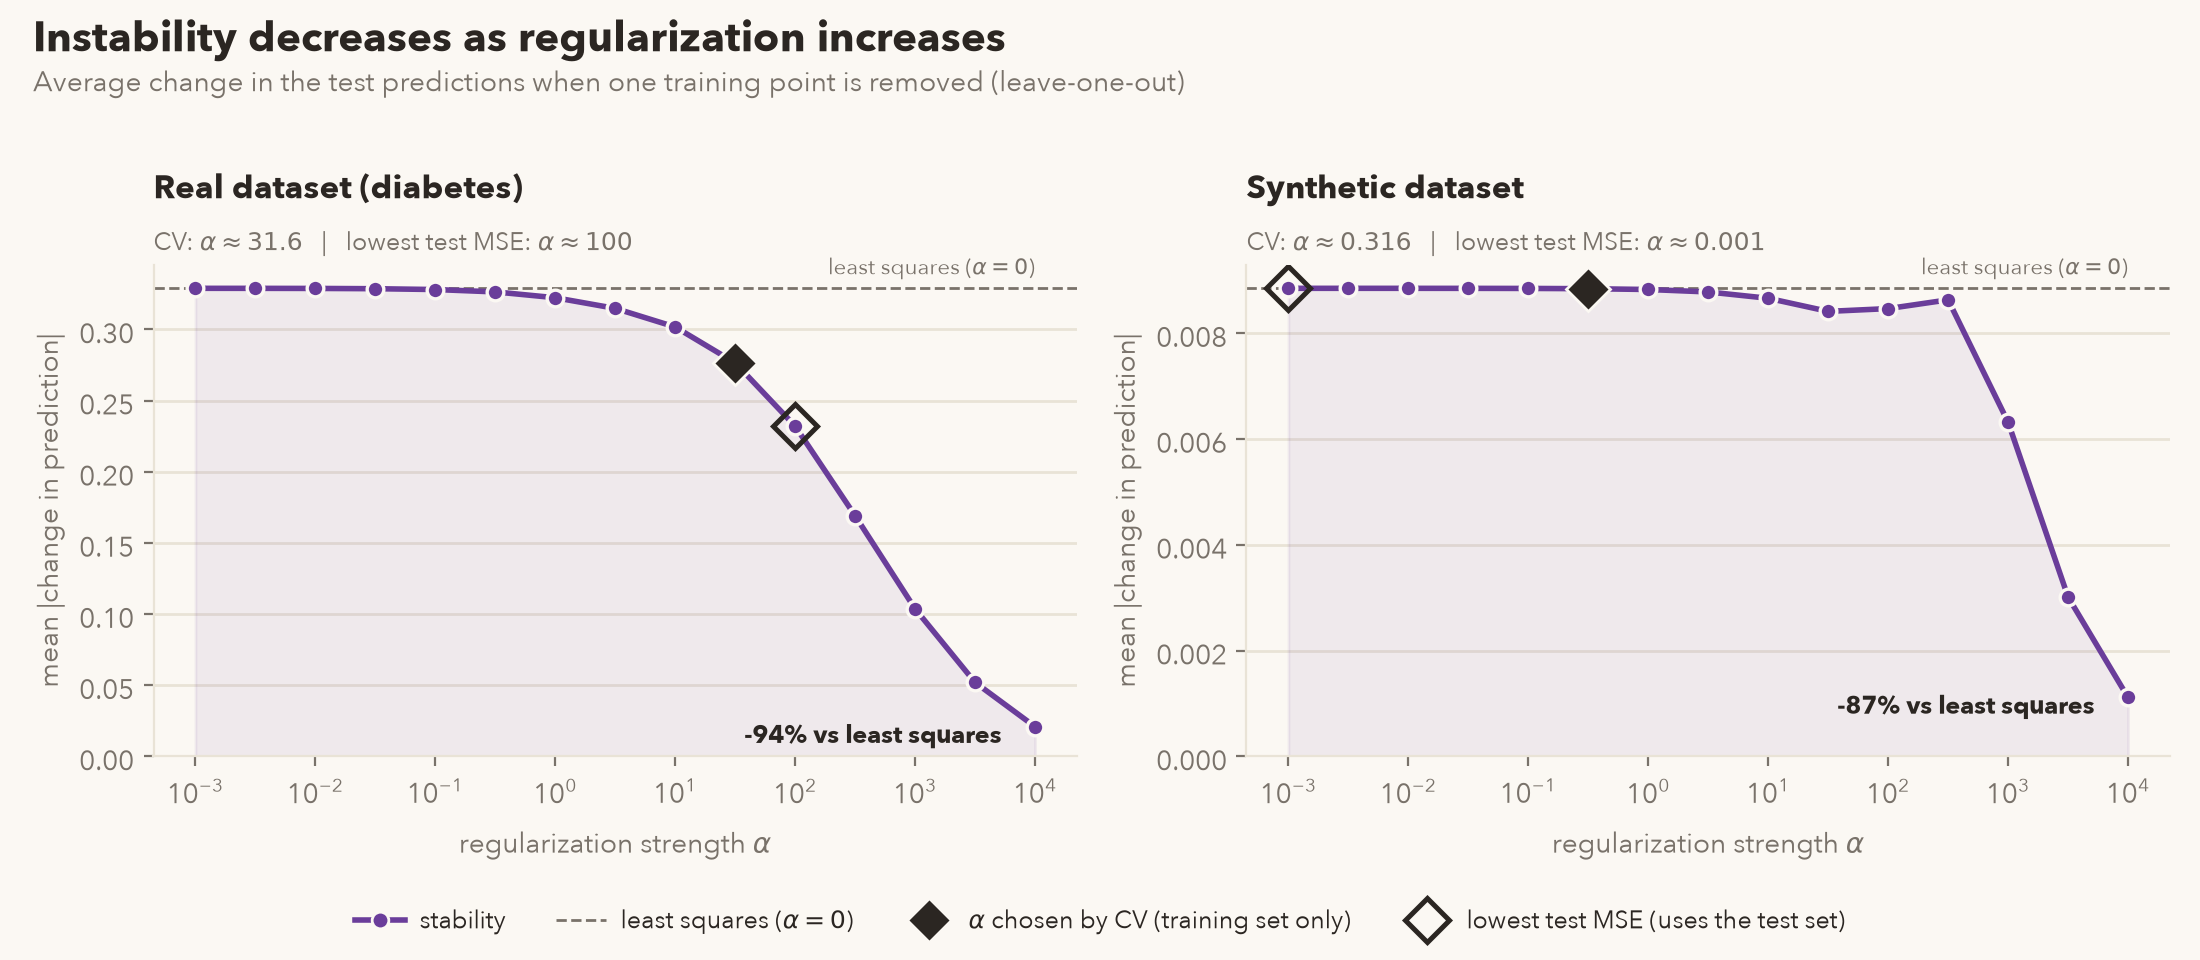
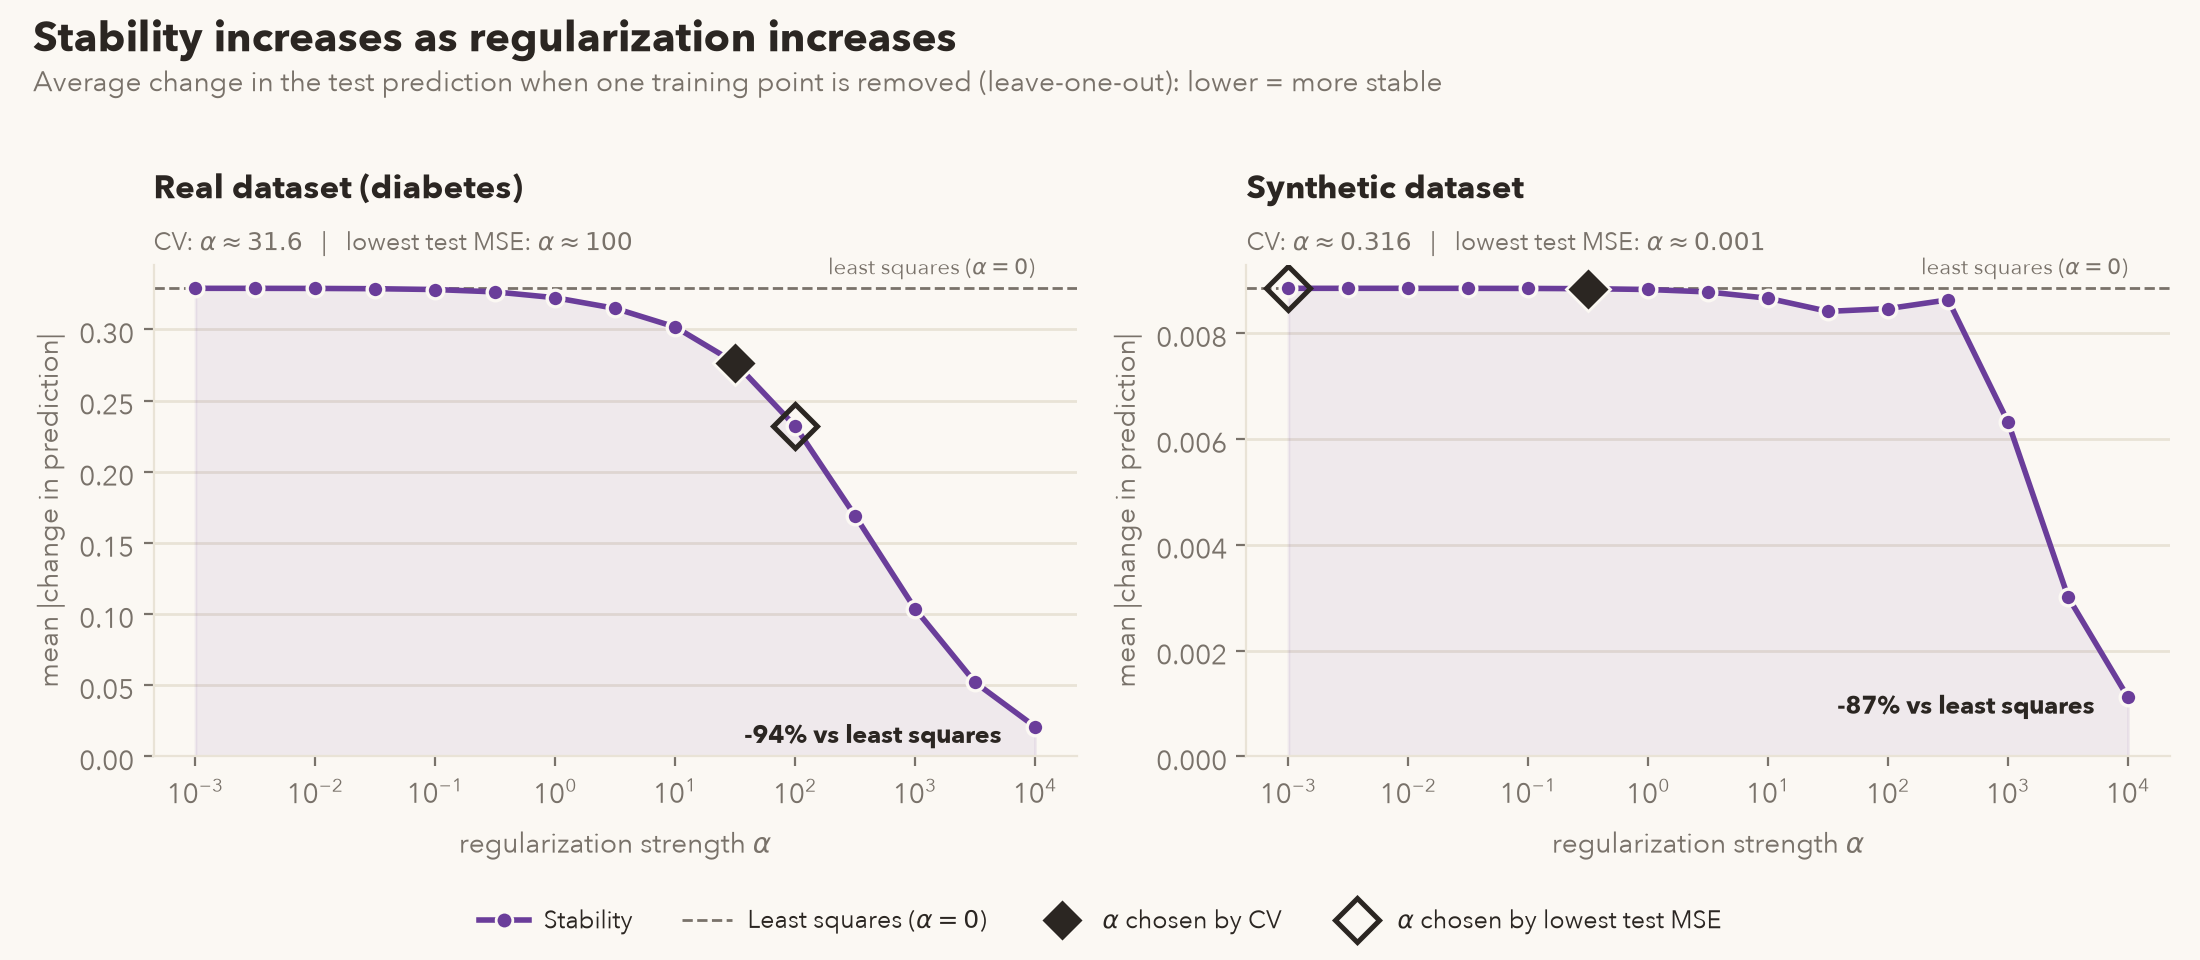
plot_results: simplify style settings, update legends, add loss stability figure (first figure)

Changed region(s): [[0.0, 0.0, 0.6491, 0.0938], [0.1545, 0.9375, 0.8345, 1.0]]

diff --git a/src/plot_results.py b/src/plot_results.py
@@ -14,41 +14,23 @@ from matplotlib.patches import Patch
 
 RESULTS_DIR = Path(__file__).resolve().parent.parent / "results"
 
-# datasets to plot: (name used in the CSV file, title shown on the panel)
+
 DATASETS = [
     ("real_diabetes", "Real dataset (diabetes)"),
     ("synthetic", "Synthetic dataset"),
-]
+] #name of file, title
+
 
 # LOOK
 
-# line colors: (test / main series, training series)
-# options: "plum_gold", "indigo_raspberry", "burgundy_teal", "plum_teal"
-COLORS = "plum_gold"
+# line colors
+TEST_COLOR = "#6a3d9a"   # plum: test
+TRAIN_COLOR = "#c47f00"  # gold: training series
 
-# line style: "dots" (solid lines with dots), "clean" (solid lines, no dots),
-# "dashed" (training line dashed with square dots, easy to tell apart even in black and white)
-LINES = "dots"
+# line styles
+LINE_STYLE = {"linestyle": "-", "marker": "o", "markersize": 6} # solid line with dots
 
-PALETTES = {
-    "plum_gold": ("#6a3d9a", "#c47f00"),
-    "indigo_raspberry": ("#4338ca", "#e11d74"),
-    "burgundy_teal": ("#9b2c5a", "#2a9d8f"),
-    "plum_teal": ("#6a3d9a", "#2a9d8f"),
-}
-
-LINE_STYLES = {
-    "dots": {"test": {"linestyle": "-", "marker": "o", "markersize": 6},
-             "train": {"linestyle": "-", "marker": "o", "markersize": 6}},
-    "clean": {"test": {"linestyle": "-", "marker": "none"},
-              "train": {"linestyle": "-", "marker": "none"}},
-    "dashed": {"test": {"linestyle": "-", "marker": "o", "markersize": 6},
-               "train": {"linestyle": "--", "marker": "s", "markersize": 5}},
-}
-
-TEST_COLOR, TRAIN_COLOR = PALETTES[COLORS]
-
-# neutral colors (warm sand background)
+# neutral colors
 BG = "#fbf8f3"     # background
 INK = "#2b2622"    # titles, markers and main text
 MUTED = "#79726a"  # secondary text and reference lines
@@ -57,6 +39,7 @@ GRID = "#e9e3d6"   # grid lines and axes
 # fonts: the first one installed on your computer is used (the last one always exists)
 FONTS = ["Avenir Next", "Futura", "Helvetica Neue", "Arial", "DejaVu Sans"]
 
+# global style
 plt.rcParams.update({
     "font.family": "sans-serif",
     "font.sans-serif": FONTS,
@@ -71,7 +54,8 @@ plt.rcParams.update({
     "figure.facecolor": BG,
     "axes.facecolor": BG,
     "savefig.facecolor": BG,
-})
+}) 
+
 
 
 # LOADING
@@ -93,19 +77,16 @@ def split_least_squares(data, key):
     ls_value = data[key][data["alpha"].index(0.0)]
     return alphas, values, ls_value
 
-
-# alpha chosen by cross-validation = the one with the lowest mean validation
-# error in results/cv_<name>.csv (written by cross_validation.py)
+# CV alpha -> training set used to pick it
 def load_cv_alpha(name):
     """Return the alpha selected by cross-validation for this dataset."""
     with open(RESULTS_DIR / f"cv_{name}.csv", newline="", encoding="utf-8") as f:
         rows = list(csv.DictReader(f))
-    best = min(rows, key=lambda r: float(r["cv_mse"]))
+    best = min(rows, key=lambda r: float(r["cv_mse"])) # keep row with lowest mse (alpha selected by cv)
     return float(best["alpha"])
 
 
-# alpha with the lowest test error, read directly on the test curve
-# --> optimistic: the test set was used to pick it (kept only for comparison)
+# test error alpha --> test set used to pick it (keep for comparison with CV alpha)
 def test_min_alpha(alphas, test):
     """Return the alpha with the lowest test MSE."""
     return alphas[test.index(min(test))]
@@ -113,43 +94,39 @@ def test_min_alpha(alphas, test):
 
 # STYLE
 
-# look of the two highlight markers (both diamonds)
-# filled diamond = alpha chosen by CV (the official choice, uses the training set only)
-# hollow diamond = alpha with the lowest test error (only for comparison, uses the test set)
+# Diamonds (alpha on graph)
 def highlight_style(kind):
     """Matplotlib marker settings for the 'cv' (filled) or 'test' (hollow) diamond."""
     if kind == "cv":
         return {"marker": "D", "markersize": 11, "markerfacecolor": INK,
-                "markeredgecolor": BG, "markeredgewidth": 1.0}
+                "markeredgecolor": BG, "markeredgewidth": 1.0} # cv alpha
     return {"marker": "D", "markersize": 11, "markerfacecolor": "none",
-            "markeredgecolor": INK, "markeredgewidth": 1.8}
+            "markeredgecolor": INK, "markeredgewidth": 1.8} #min alpha
 
 
-# draw one highlight marker on the point of a curve at a given alpha
 def mark_alpha(ax, alphas, values, alpha, kind):
     """Highlight the point of the curve at this alpha."""
-    i = alphas.index(alpha)
-    ax.plot(alphas[i], values[i], linestyle="none", zorder=5, **highlight_style(kind))
+    i = alphas.index(alpha) # receives alpha
+    ax.plot(alphas[i], values[i], linestyle="none", zorder=5, **highlight_style(kind)) # puts diamond on the stability value of that alpha
 
 
-# one series: "test" or "train" (the line style comes from LINE_STYLES)
-# dots are ringed in the background color --> they stay readable when they overlap a line
+# Curve
 def draw_curve(ax, alphas, values, series):
-    """Draw one series as a 2px line, colored and styled according to the settings."""
-    color = TEST_COLOR if series == "test" else TRAIN_COLOR
+    """Draw one series as a 2px line, colored according to the series."""
+    color = TEST_COLOR if series == "test" else TRAIN_COLOR # chooses color based on series
     ax.plot(alphas, values, color=color, linewidth=2, markeredgecolor=BG,
-            markeredgewidth=1.2, zorder=3, **LINE_STYLES[LINES][series])
+            markeredgewidth=1.2, zorder=3, **LINE_STYLE) # background color --> dots readable when they overlap a line
 
 
-# legend entry that looks exactly like one of the series
+# Legend
 def series_handle(series, label):
     """Legend entry for the 'test' or 'train' series."""
     color = TEST_COLOR if series == "test" else TRAIN_COLOR
     return Line2D([], [], color=color, linewidth=2, markeredgecolor=BG, label=label,
-                  **LINE_STYLES[LINES][series])
+                  **LINE_STYLE)
 
 
-# common look of every panel: log x-axis, light grid, title + small subtitle
+# Panels' look
 def style_axis(ax, title, subtitle, ylabel):
     """Apply the shared formatting to one panel."""
     ax.set_xscale("log")
@@ -162,79 +139,82 @@ def style_axis(ax, title, subtitle, ylabel):
     ax.set_axisbelow(True)  # grid behind the data
 
 
-# subtitle shown under each panel title: the two alphas that are highlighted
+# Subtitles
 def alpha_subtitle(cv_alpha, best_test_alpha):
     """Text with the alpha chosen by CV and the alpha with the lowest test MSE."""
     return (rf"CV: $\alpha \approx {cv_alpha:.3g}$   |   "
             rf"lowest test MSE: $\alpha \approx {best_test_alpha:.3g}$")
 
 
-# marker entries (filled / hollow diamond) shared by both legends
+# Legend voice for diamonds
 def marker_handles():
     """Legend entries that explain the two highlight markers."""
     return [
-        Line2D([], [], linestyle="none", label=r"$\alpha$ chosen by CV (training set only)",
+        Line2D([], [], linestyle="none", label=r"$\alpha$ chosen by CV",
                **highlight_style("cv")),
-        Line2D([], [], linestyle="none", label="lowest test MSE (uses the test set)",
+        Line2D([], [], linestyle="none", label=r"$\alpha$ chosen by lowest test MSE",
                **highlight_style("test")),
     ]
 
 
-# one legend for the whole figure, below the panels (both panels share it)
+# Shared legend
 def figure_legend(fig, handles, ncol):
     """Place a shared legend at the bottom of the figure."""
     fig.legend(handles=handles, loc="lower center", ncol=ncol, frameon=False,
                fontsize=9, labelcolor=INK, columnspacing=2, handletextpad=0.6)
 
 
-# title + one-line explanation at the top-left of the figure
+# Global title + subtitle  
 def figure_title(fig, title, subtitle):
     """Write the figure title and a gray description under it."""
     fig.suptitle(title, x=0.015, y=0.99, ha="left", fontsize=15, fontweight="bold")
     fig.text(0.015, 0.905, subtitle, ha="left", fontsize=10, color=MUTED)
     
     
+    
+    
 # FIGURE 1: STABILITY VS ALPHA
 
-def plot_stability():
-    """Mean |change in prediction| after removing one training point."""
-    fig, axes = plt.subplots(1, 2, figsize=(11, 4.8))  # one panel per dataset (different scales)
+# same figure for two stability metrics: change in prediction (default) or change in loss
+def plot_stability(column="pred_change", what="prediction",
+                   filename="stability_vs_alpha.png", label="Stability"):
+    """Mean |change in <what>| after removing one training point."""
+    fig, axes = plt.subplots(1, 2, figsize=(11, 4.8))  # 1 row, 2 panels (different scales)
     for ax, (name, title) in zip(axes, DATASETS):
         data = load_sweep(name)
-        alphas, values, ls_value = split_least_squares(data, "pred_change")
+        alphas, values, ls_value = split_least_squares(data, column)  # column of the CSV to plot
         _, test, _ = split_least_squares(data, "test_mse")
         cv_alpha = load_cv_alpha(name)
         best_test_alpha = test_min_alpha(alphas, test)
 
-        ax.fill_between(alphas, values, color=TEST_COLOR, alpha=0.08)  # light wash under the curve
+        ax.fill_between(alphas, values, color=TEST_COLOR, alpha=0.08)  # area under the curve
         draw_curve(ax, alphas, values, "test")
-        # filled diamond = alpha chosen by CV, hollow diamond = alpha with the lowest test error
-        mark_alpha(ax, alphas, values, cv_alpha, "cv")
-        mark_alpha(ax, alphas, values, best_test_alpha, "test")
+        mark_alpha(ax, alphas, values, cv_alpha, "cv") # filled
+        mark_alpha(ax, alphas, values, best_test_alpha, "test") # empty
 
-        # dashed line = least squares (alpha = 0), the unregularized baseline
-        ax.axhline(ls_value, color=MUTED, linestyle="--", linewidth=1)
+        ax.axhline(ls_value, color=MUTED, linestyle="--", linewidth=1) # dashed line = least squares (alpha = 0)
         ax.annotate(r"least squares ($\alpha=0$)", xy=(alphas[-1], ls_value),
                     xytext=(0, 5), textcoords="offset points", ha="right",
-                    fontsize=8, color=MUTED)  # label at the right end, where the curve is low
+                    fontsize=8, color=MUTED)
+      
         # headline number: how much more stable at the strongest regularization
-        drop = 100 * (1 - values[-1] / ls_value)
+        drop = 100 * (1 - values[-1] / ls_value)  # 1 - (last value, alpha = 10000) / (least squares, alpha = 0)
         ax.annotate(f"-{drop:.0f}% vs least squares", xy=(alphas[-1], values[-1]),
                     xytext=(-12, -3), textcoords="offset points", ha="right", va="center",
                     fontsize=9, color=INK, fontweight="bold")  # left of the last point
 
         style_axis(ax, title, alpha_subtitle(cv_alpha, best_test_alpha),
-                   "mean |change in prediction|")
-        ax.set_ylim(bottom=0)  # start from 0 so the size of the drop is not exaggerated
-    figure_title(fig, "Instability decreases as regularization increases",
-                 "Average change in the test predictions when one training point "
-                 "is removed (leave-one-out)")
-    curve_handle = series_handle("test", "stability")
+                   f"mean |change in {what}|")
+        ax.set_ylim(bottom=0)  # y-axis starts from 0
+    figure_title(fig, "Stability increases as regularization increases",
+                 f"Average change in the test {what} when one training point "
+                 "is removed (leave-one-out): lower = more stable")
+    curve_handle = series_handle("test", label)
     ls_handle = Line2D([], [], color=MUTED, linestyle="--", linewidth=1,
-                       label=r"least squares ($\alpha=0$)")
+                       label=r"Least squares ($\alpha=0$)")
     figure_legend(fig, [curve_handle, ls_handle] + marker_handles(), ncol=4)
     fig.tight_layout(rect=(0, 0.07, 1, 0.95))  # leave room for title above and legend below
-    fig.savefig(RESULTS_DIR / "stability_vs_alpha.png", dpi=200)
+    fig.savefig(RESULTS_DIR / filename, dpi=200)  # file name comes from the parameter
     plt.close(fig)
 
 
@@ -280,6 +260,7 @@ def plot_test_error():
 
 
 if __name__ == "__main__":
-    plot_stability()
+    plot_stability()  # change in prediction --> stability_vs_alpha.png
+    plot_stability("loss_change", "loss", "stability_loss_vs_alpha.png", "Change in loss")
     plot_test_error()
     print(f"Figures saved in {RESULTS_DIR}")
